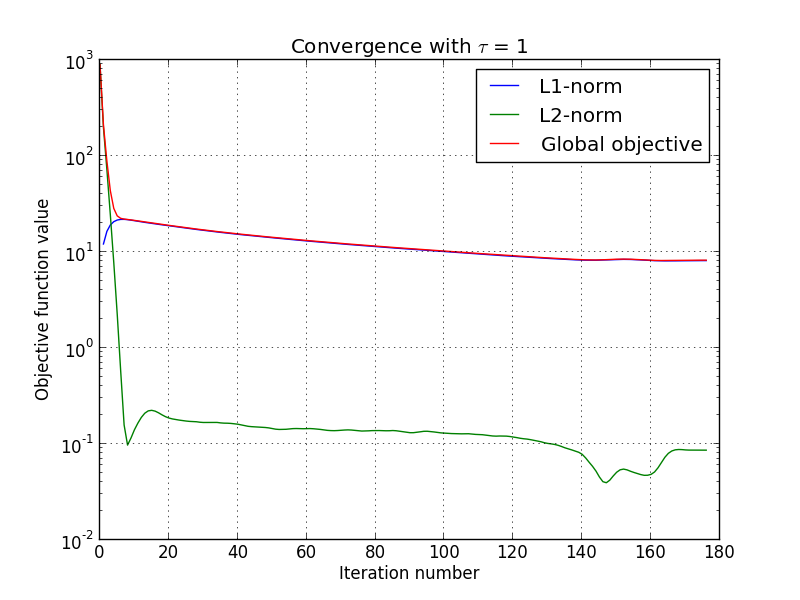
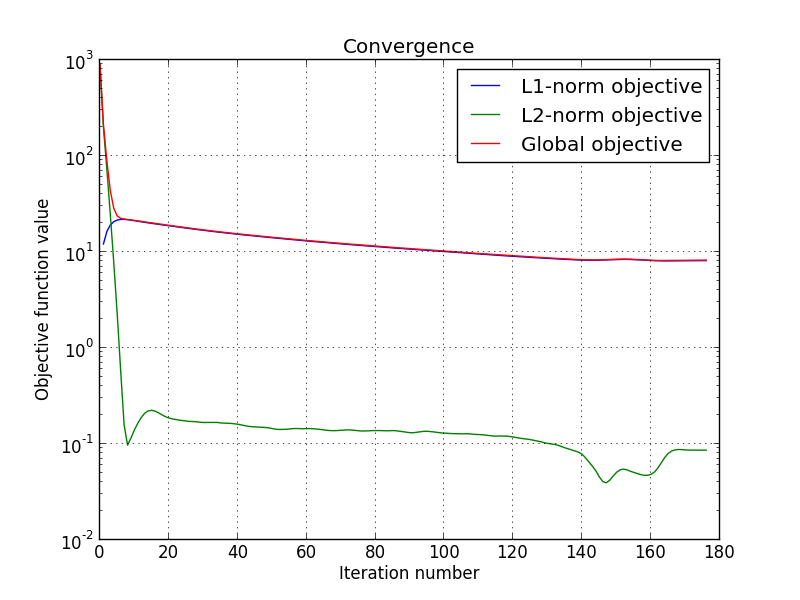
Comments to compressed sensing tutorial

Changed region(s): [[0.3438, 0.06, 0.875, 0.27]]

diff --git a/pyunlocbox/solvers.py b/pyunlocbox/solvers.py
@@ -21,10 +21,11 @@ def solve(functions, x0, solver=None, relTol=1e-3, absTol=float('-inf'),
     convex functions.
 
     This function minimizes the objective function :math:`f(x) =
-    \sum\limits_{k=0}^{k=M} f_k(x)`, i.e. solves :math:`\arg\!\min_x
-    \sum\limits_{k=0}^{k=M} f_k(x)` for :math:`x \in \mathbb{R}^N` using
-    whatever algorithm. It returns a dictionary with the found solution and
-    some informations about the algorithm execution.
+    \sum\limits_{k=0}^{k=M} f_k(x)`, i.e. solves
+    :math:`\operatorname{arg\,min}\limits_x \sum\limits_{k=0}^{k=M} f_k(x)` for
+    :math:`x \in \mathbb{R}^N` using whatever algorithm. It returns a
+    dictionary with the found solution and some informations about the
+    algorithm execution.
 
     Parameters
     ----------

diff --git a/pyunlocbox/functions.py b/pyunlocbox/functions.py
@@ -269,6 +269,7 @@ class norm_l1(norm):
             The L1-norm proximal operator evaluated at `x` :
             :math:`\min_z \frac{1}{2} ||x-z||_2^2 + \gamma
             ||w \cdot (A(z)-y)||_1` where :math:`\gamma = \lambda \cdot T`
+            This is simply a soft thresholding.
 
         Examples
         --------

diff --git a/doc/tutorials/compressed_sensing_1.rst b/doc/tutorials/compressed_sensing_1.rst
@@ -2,70 +2,123 @@
 Compressed sensing using forward-backward
 =========================================
 
+This tutorial presents a compressed sensing problem solved by the
+forward-backward splitting algorithm. The problem can be expressed as follow :
 
->>> # Problem creation.
+.. math:: \operatorname{arg\,min}\limits_x ||Ax-y||^2 + \tau ||x||_1
+
+where `y` are the measurements and `A` is the measurement matrix.
+
+We first declare the signal size `N` and the sparsity level `K` :
+
+>>> N = 5000
+>>> K = 100
+
+The number of measurements `M` is computed with respect to the size of the
+signal `N` and the sparsity level `K` :
+
 >>> import numpy as np
->>> tau = 1      # Regularization parameter.
->>> N = 5000     # Signal size.
->>> K = 100      # Sparsity level.
 >>> R = max(4, np.ceil(np.log(N)))
->>> M = K * R    # Number of measurements.
-
+>>> M = K * R
 >>> print('Number of measurements : %d' % (M,))
 Number of measurements : 900
 >>> print('Compression ratio : %3.2f' % (N/M,))
 Compression ratio : 5.56
 
->>> # Measurements matrix.
->>> # Reproducible results.
->>> np.random.seed(1)
+With the above defined number of measurements, the algorithm is supposed to
+very often perform a perfect reconstruction.
+
+We now generate a random measurement matrix :
+
+>>> np.random.seed(1)  # Reproducible results.
 >>> A = np.random.standard_normal((M, N))
 
->>> # Create a K sparse signal.
+And create the `K` sparse signal :
+
 >>> x = np.zeros(N)
 >>> I = np.random.permutation(N)
 >>> x[I[0:K]] = np.random.standard_normal(K)
 >>> x = x / np.linalg.norm(x)
 
->>> # Measurements.
+We are now able to compute the measured signal :
+
 >>> y = np.dot(A, x)
 
-You can also pass a verbosity of ``'low'`` or ``'high'`` if you want the solver
-to output some informations.
+The first objective function to minimize is defined by :
 
->>> # Set the two convex function objects.
+.. math:: f_1(x) = ||x||_1
+
+which is an L1-norm. The L1-norm function object is part of the toolbox
+standard function objects and can be instantiated as follow (the regularization
+parameter :math:`\tau` is implicitly set to 1.0):
+
 >>> from pyunlocbox import functions
->>> f1 = functions.norm_l1(lambda_=tau, verbosity='none')
+>>> f1 = functions.norm_l1(verbosity='none')
+
+.. note:: You can also pass a verbosity of ``'low'`` or ``'high'`` if you want
+    some informations about the norm evaluation. Please see the documentation
+    of the norm function object for more information on how to instantiate norm
+    objects (:class:`pyunlocbox.functions.norm`).
+
+The second objective function to minimize is defined by :
+
+.. math:: f_2(x) = ||Ax-b||_2^2
+
+which is an L2-norm that is also part of the standard function objects. It can
+be instantiated as follow :
+
 >>> f2 = functions.norm_l2(y=y, A=A, verbosity='none')
 
->>> # Alternative 1 (same results) : pass operators instead of matrices.
+or alternatively as follow :
+
 >>> A_ = lambda x: np.dot(A, x)
 >>> At_ = lambda x: np.dot(np.transpose(A), x)
 >>> f3 = functions.norm_l2(y=y, A=A_, At=At_, verbosity='none')
->>> assert f3
 
->>> # Alternative 2 (same results) : manual definition of the L2 norm.
+Note that in this case the forward and adjoint operators were passed as real
+operators not as matrices. A third alternative would be to define the function
+object by hand :
+
 >>> f4 = functions.func()
 >>> f4.grad = lambda x: 2.0 * np.dot(np.transpose(A), np.dot(A, x) - y)
 >>> f4.eval = lambda x: np.linalg.norm(np.dot(A, x) - y)**2
 
->>> # Set the solver object. Step size : beta = 2*norm(A)^2.
+.. note:: The three alternatives to instantiate the function objects (`f2`,
+    `f3` and `f4`) are strictly equivalent and will give the exact same results.
+
+Now that the two function objects to minimize (the L1-norm and the L2-norm) are
+instantiated, we can instantiate the solver object. The step size for optimal
+convergence is :math:`\frac{1}{\beta}` where :math:`\beta` is given by
+
+.. math:: \beta = 2 \cdot \operatorname{norm}(A)^2
+
+To solve this problem, we use the forward-backward splitting algorithm which is
+instantiated as follow :
+
 >>> gamma = 0.5 / np.linalg.norm(A, ord=2)**2
 >>> from pyunlocbox import solvers
 >>> solver = solvers.forward_backward(method='FISTA', gamma=gamma)
 
->>> # Solve the problem.
+.. note:: See the solver documentation for more information
+    (:class:`pyunlocbox.solvers.forward_backward`).
+
+The problem is then solved by executing the solver on the objective functions,
+after the setting of a starting point `x0` :
+
 >>> x0 = np.zeros(N)
->>> ret = solvers.solve([f1, f2], x0, solver, relTol=1e-4, maxIter=300,
-...                     verbosity='low')
+>>> ret = solvers.solve([f1, f2], x0, solver, relTol=1e-4, maxIter=300)
 Solution found in 176 iterations :
     objective function f(sol) = 8.221302e+00
     last relative objective improvement : 8.363264e-05
     stopping criterion : REL_TOL
 
->>> import matplotlib.pyplot as plt
+.. note:: See the solving function documentation for more information on the
+    parameters and the returned values
+    (:class:`pyunlocbox.solvers.forward_backward`).
 
->>> # Display the results.
+Lets display the results :
+
+>>> import matplotlib.pyplot as plt
 >>> fig = plt.figure()
 >>> _ = plt.plot(x, 'o', label='Original')
 >>> _ = plt.plot(ret['sol'], 'xr', label='Reconstructed')
@@ -77,20 +130,24 @@ Solution found in 176 iterations :
 >>> fig.savefig('doc/tutorials/compressed_sensing_1_results.pdf')
 >>> fig.savefig('doc/tutorials/compressed_sensing_1_results.png')
 
-.. image:: compressed_sensing_results.*
+.. image:: compressed_sensing_1_results.*
 
->>> # Display the convergence
+The above figure shows a good reconstruction which is both sparse (thanks to
+the L1-norm) and close to the measurements (thanks to the L2-norm).
+
+We can also display the convergence of the two objective functions :
+
 >>> fig = plt.figure()
 >>> objective = np.array(ret['objective'])
->>> _ = plt.semilogy(objective[:, 0], label='L1-norm')
->>> _ = plt.semilogy(objective[:, 1], label='L2-norm')
+>>> _ = plt.semilogy(objective[:, 0], label='L1-norm objective')
+>>> _ = plt.semilogy(objective[:, 1], label='L2-norm objective')
 >>> _ = plt.semilogy(np.sum(objective, axis=1), label='Global objective')
 >>> _ = plt.grid(True)
->>> _ = plt.title(r'Convergence with $\tau$ = %d' % tau)
+>>> _ = plt.title('Convergence')
 >>> _ = plt.legend()
 >>> _ = plt.xlabel('Iteration number')
 >>> _ = plt.ylabel('Objective function value')
 >>> fig.savefig('doc/tutorials/compressed_sensing_1_convergence.pdf')
 >>> fig.savefig('doc/tutorials/compressed_sensing_1_convergence.png')
 
-.. image:: compressed_sensing_convergence.*
+.. image:: compressed_sensing_1_convergence.*
